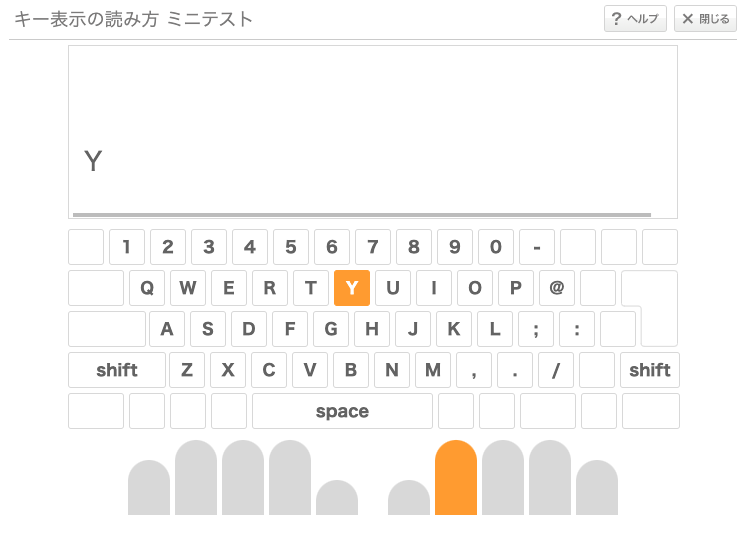
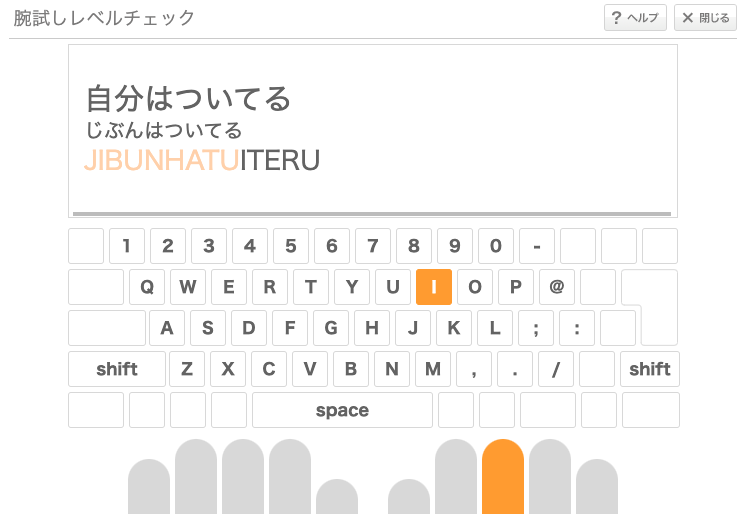
make a fair copy

diff --git a/slides/24-09-07_Vol.16_01_typing_practice.md b/slides/24-09-07_Vol.16_01_typing_practice.md
@@ -153,7 +153,10 @@ _paginate: false
 
 <br>
 
-![](./assets/e-typing_roman_alphabet_list.png)
+<img src="./assets/e-typing_roman_alphabet_list.png" style="border: 1px silver solid; height: 50%; width: auto; margin: auto">
+
+<!-- ![](./assets/e-typing_roman_alphabet_list.png) -->
+
 <span style="font-size: 50%;"><a href="https://www.e-typing.ne.jp/datas/roma/roman_matrix.pdf">https://www.e-typing.ne.jp/datas/roma/roman_matrix.pdf</a>
 ※赤丸は説明のために追加している</span>
 
@@ -229,15 +232,23 @@ _paginate: false
 - キーボードを見ずに入力する練習をする
 - 指でキーの位置を把握する
 
+※初心者は入力の速さよりも正確さを意識するのが良い
+<br>
+そうは言っても、難しい。。。？
+
 ---
 
-##### 実は難しくない？ e-typing の場合
+##### 実はそんなに難しくない？ e-typing の場合
 
-![height:400](./assets/e-typing-playing.png)
+<img src="./assets/e-typing-playing.png" style="border: 1px silver solid; height: 60%; width: auto; margin: auto">
 
-- 入力は右手の人差し指を使うこと
-- `Y`キーは`J`から見て左上にキーを 1 つまたいだ位置
-  → キーボードを見なくてもキーを探せる
+<span style="font-size: 70%;">
+
+画面からは、入力対象キーが`I`で、入力は右手中指を使うことがわかる
+右手中指のホームポジション`K`で、そこを基準にすると`I`はその 1 上にある
+**→ キーの位置を覚えていなくても、キーボードを見ずにあたりをつけられる**
+
+</span>
 
 ---
 
@@ -252,9 +263,9 @@ _paginate: false
   - 可能であれば打ちやすさ重視で覚えると良い
   - e-typing の早見表は特におすすめできる
 - ホームポジション
-  - 決まったキーと決まった指で押す
-  - 打ったら戻るが大事
-  - キーボードは見ず画面をみて、キー配列を覚える
+  - 決まったキーを決まった指で押す
+  - 数文字打ったらホームポジションに戻る
+  - キーボードを見ずに練習し、キーの位置を覚える
 
 ---
 
